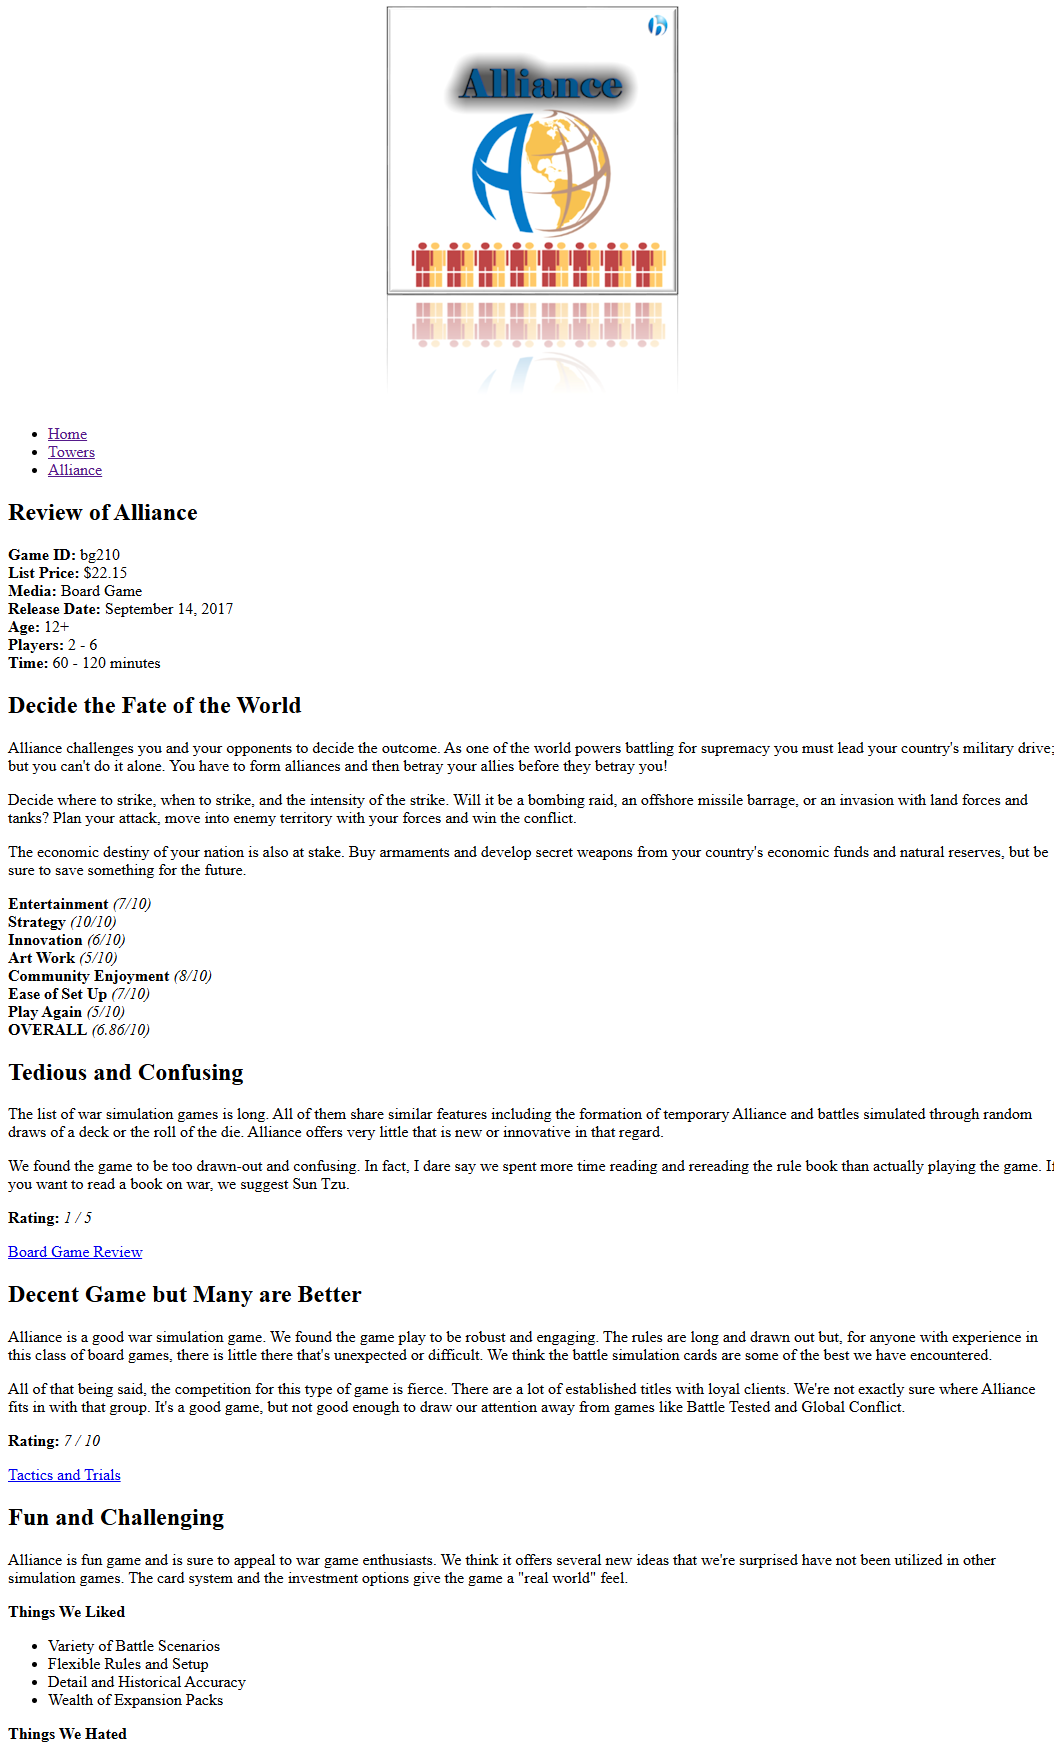
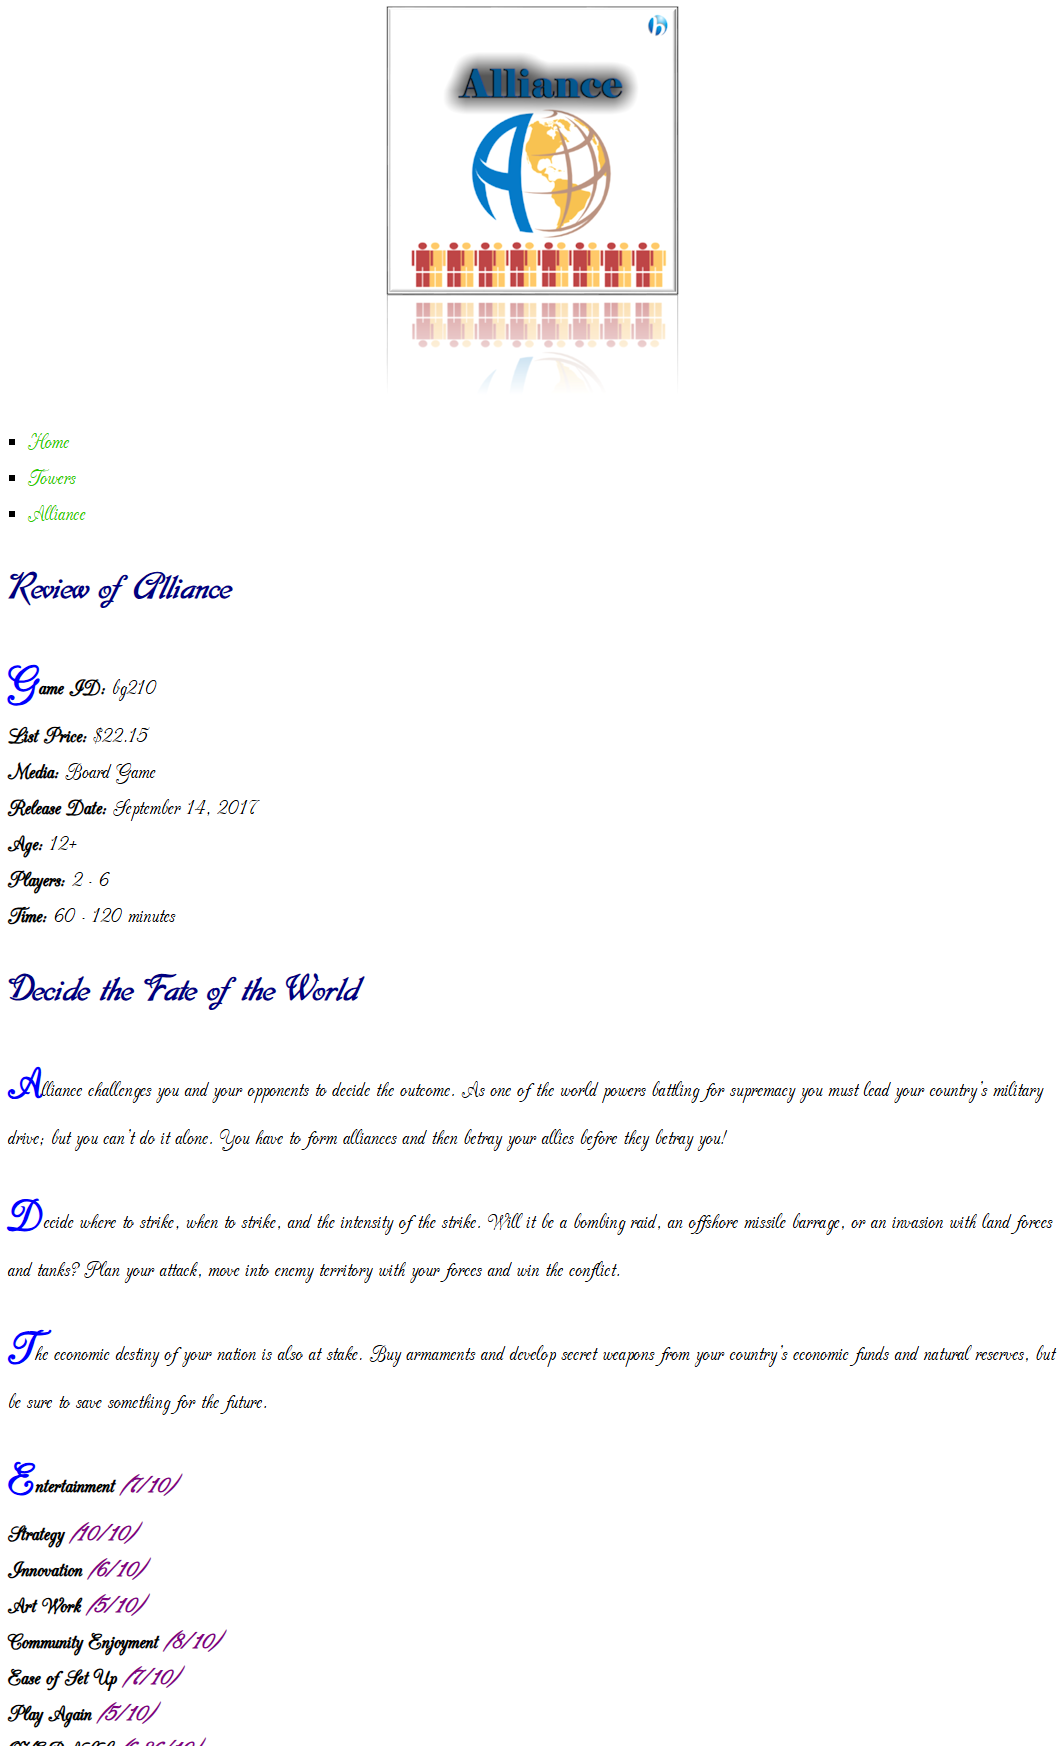
Revamped Site 2

diff --git a/Module 1 - HTML & CSS/Site 2/css/hg_styles.css b/Module 1 - HTML & CSS/Site 2/css/hg_styles.css
@@ -1,0 +1,107 @@
+/* Character encoding definition */
+@charset "utf-8";
+
+/* Import fonts */
+@import url(../resources/DobkinPlain.ttf);
+
+/*
+    Case 4
+    Tutorial Case
+
+    Style Sheet for Harpe Gaming Site
+    Author: Tai Sewell
+    Date: 09/03/2025
+
+    filename: hg_styles.css
+*/
+
+@font-face {
+    font-family: "dobkin";
+    src: url(../resources/DobkinPlain.woff) format("woff");
+}
+@font-face {
+    font-family: "cac";
+    src: url(../resources/cac_champagne.woff) format("woff");
+}
+
+/* Page background */
+html {
+    background-color: rgb(255, 255, 255);
+    color: black;
+}
+
+/* Headings use dobkin */
+h1 {
+    font-family: "dobkin", "cac", sans-serif;
+    color: navy;
+}
+
+/* Body text, articles, and asides use cac */
+p, li, article, aside {
+    font-family: "cac", "dobkin", sans-serif;
+    font-size: x-large;
+    line-height: 1.5;
+}
+
+/* Links */
+a {
+    color: rgb(41, 204, 0);
+    text-decoration: none;
+}
+a:hover {
+    color: red;
+}
+
+/* List styles */
+ul {
+    list-style-type: square;
+    padding-left: 20px;
+}
+ol {
+    list-style-type: upper-roman;
+}
+
+/* Semi-transparent background */
+aside {
+    background-color: rgba(96, 96, 97, 0.151);
+    padding: 10px;
+    margin: 10px 0;
+    display: inline-block;
+}
+
+/* Nested selector: <p> containing <em> */
+p em {
+    color: purple;
+    font-weight: bold;
+}
+
+/* Child selector: direct li children of nav */
+nav > li {
+    display: inline-block;
+    margin-right: 20px;
+}
+
+/* ID selector */
+#special {
+    color: orange;
+    font-size: larger;
+}
+
+p::first-letter {
+    font-size: 200%;
+    color: blue;
+    font-weight: bold;
+}
+
+/* Generated content */
+h2::after {
+    content: " ★";
+    color: gold;
+}
+
+/* Spacing (padding + margin) */
+section {
+    margin: 20px;
+    padding: 15px;
+    border: 1px solid black;
+}
